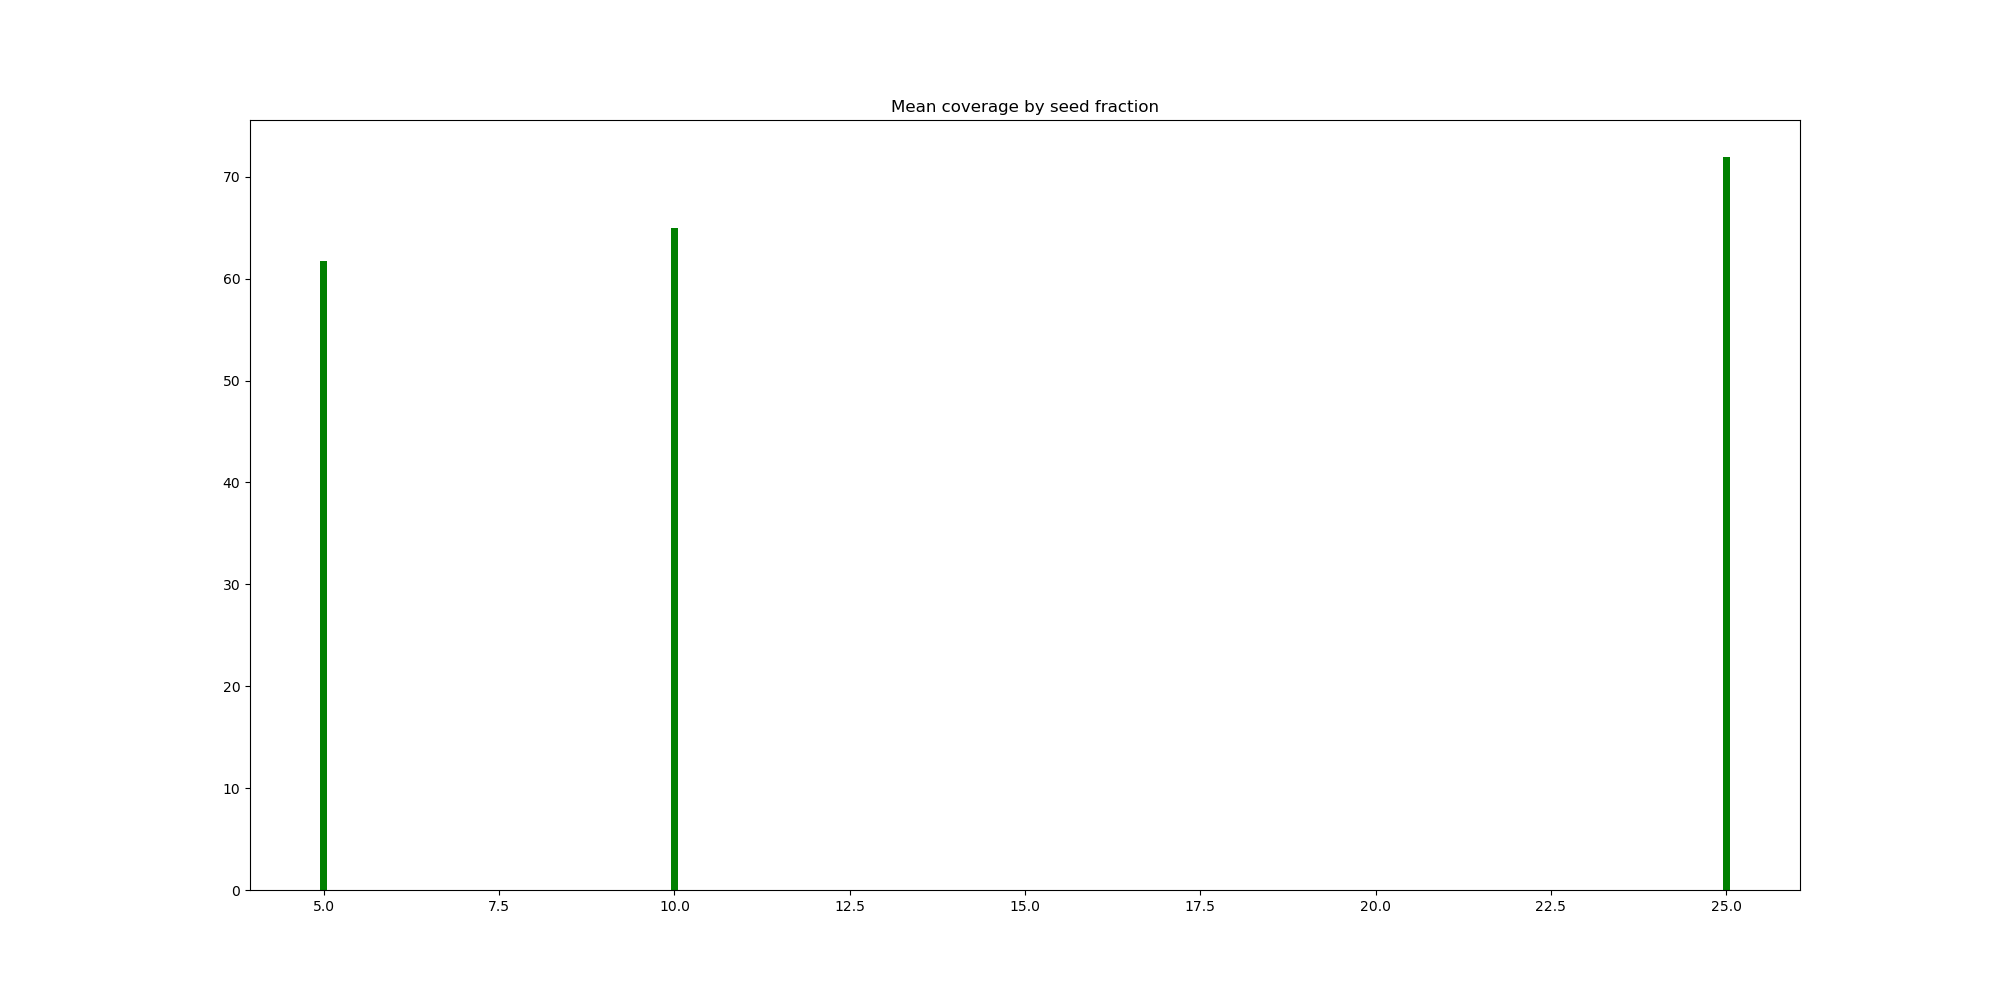
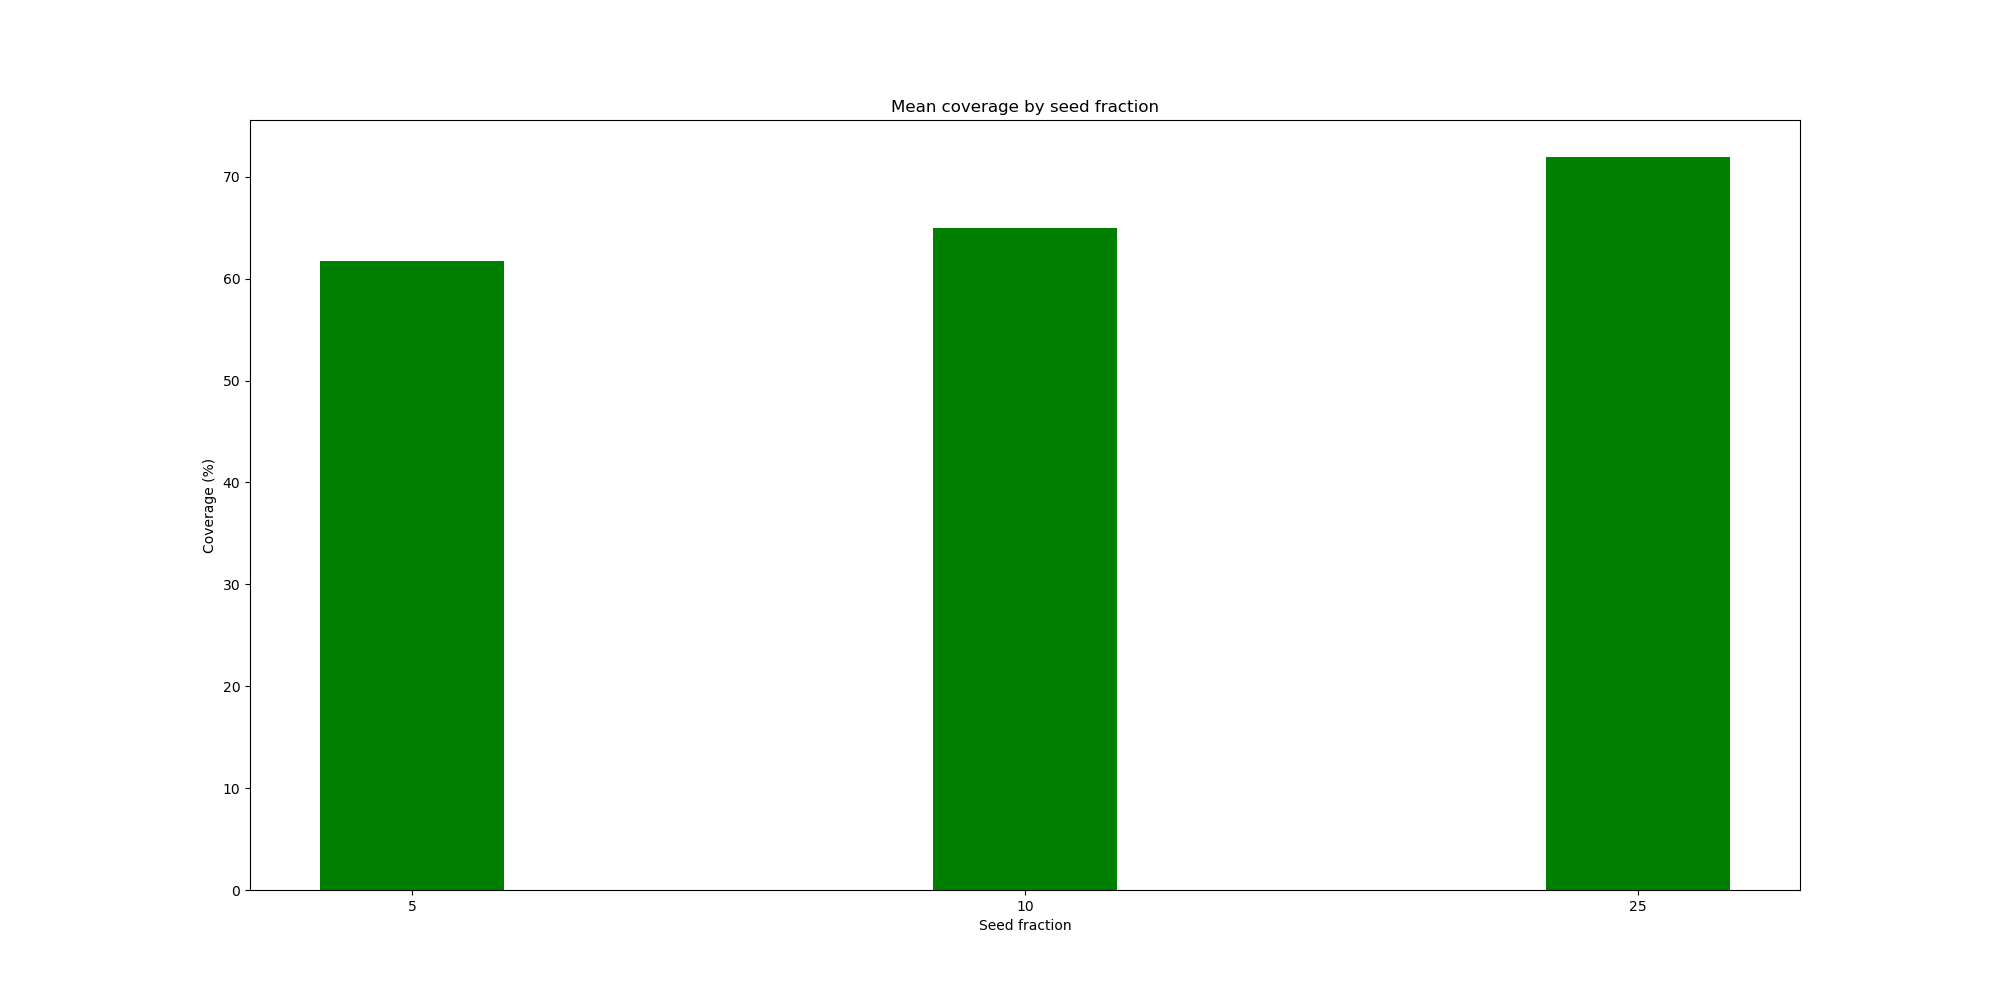
complex network finish!

diff --git a/complex-network/zad3/src/Service/GraphModelGenerator.py b/complex-network/zad3/src/Service/GraphModelGenerator.py
@@ -1,7 +1,6 @@
 import numpy as np
 from matplotlib import pyplot as plt
 import pandas as pd
-import os
 
 
 class GraphModelGenerator:
@@ -12,26 +11,6 @@ class GraphModelGenerator:
         self._default_filepath_data: str = './data/results_main.csv'
         self._file = self.__read_file()
 
-    def generate_average_measure_graph(self, filename: str = 'measure_average_infection.png'):
-        measure_names = self._file['Measure'].unique()
-        averages = [self._file[self._file['Measure'] == measure_name]['IF'].mean() for measure_name in measure_names]
-
-        plt.figure(figsize=(20, 10))
-        plt.bar(measure_names, averages, color='g')
-        plt.title('Average infection by measure')
-        plt.savefig(f'{self.save_filepath}/{filename}')
-
-    def generate_averaged_increasing_infection_by_pp(self, filename: str = 'averaged_increasing_infection_by_pp.png'):
-        networks = self._file['Network'].unique()
-        filepath_to_save = f'{self.save_filepath}/{filename.replace("png", "").replace("jpg", "")}'
-
-        if not os.path.exists(filepath_to_save):
-            os.mkdir(filepath_to_save)
-
-        for network in networks:
-            network_data = self._file[self._file['Network'] == network]
-            self.__generate_averaged_increasing_function_by_pp(network_data, filename)
-
     def generate_mean_coverage_by_network(self, filename: str = 'mean_coverage_by_network.png'):
         network_uniques = self._file['Network'].unique()
         network_uniques = np.array(list(map(lambda name: name.replace('.txt', ''), network_uniques)))
@@ -39,28 +18,30 @@ class GraphModelGenerator:
         mean_coverage_by_network = self._file.groupby(['Network'], sort=True)['IF'].mean()
 
         plot_title = 'Mean coverage by network'
-        self.__bar(network_uniques, mean_coverage_by_network, plot_title, filename)
+        self.__bar(network_uniques, mean_coverage_by_network, plot_title, filename, xlabel='Network', ylabel='Coverage (%)')
 
     def generate_mean_coverage_by_pp(self, filename: str = 'mean_coverage_by_pp.png'):
         pp_uniques = self._file['PP'].unique()
+        pp_uniques = list(map(lambda name: str(name), pp_uniques))
         mean_coverage_by_pp = self._file.groupby(['PP'])['IF'].mean()
 
         plot_title = 'Mean coverage by propagation probability'
-        self.__bar(pp_uniques, mean_coverage_by_pp, plot_title, filename)
+        self.__bar(pp_uniques, mean_coverage_by_pp, plot_title, filename, xlabel='Propagation probability', ylabel='Coverage (%)')
 
     def generate_mean_coverage_by_sf(self, filename: str = 'mean_coverage_by_sf.png'):
         sf_uniques = self._file['SF'].unique()
+        sf_uniques = list(map(lambda name: str(name), sf_uniques))
         mean_coverage_by_sf = self._file.groupby(['SF'])['IF'].mean()
 
         plot_title = 'Mean coverage by seed fraction'
-        self.__bar(sf_uniques, mean_coverage_by_sf, plot_title, filename)
+        self.__bar(sf_uniques, mean_coverage_by_sf, plot_title, filename, xlabel='Seed fraction', ylabel='Coverage (%)')
 
     def generate_mean_coverage_by_measure(self, filename: str = 'mean_coverage_by_measure.png'):
         measure_uniques = self._file['Measure'].unique()
         mean_coverage_by_measure = self._file.groupby(['Measure'])['IF'].mean()
 
         plot_title = 'Mean coverage by measure'
-        self.__bar(measure_uniques, mean_coverage_by_measure, plot_title, filename)
+        self.__bar(measure_uniques, mean_coverage_by_measure, plot_title, filename, xlabel='Measure', ylabel='Coverage (%)')
 
     def generate_mean_steps_by_network(self, filename: str = 'mean_steps_by_network.png'):
         network_uniques = self._file['Network'].unique()
@@ -69,52 +50,81 @@ class GraphModelGenerator:
         mean_steps_by_network = self._file.groupby(['Network'])['Iterations count'].mean()
 
         plot_title = 'Mean steps by network'
-        self.__bar(network_uniques, mean_steps_by_network, plot_title, filename)
+        self.__bar(network_uniques, mean_steps_by_network, plot_title, filename, xlabel='Network', ylabel='Steps')
 
     def generate_mean_steps_by_pp(self, filename: str = 'mean_steps_by_pp.png'):
         pp_uniques = self._file['PP'].unique()
+        pp_uniques = list(map(lambda name: str(name), pp_uniques))
         mean_steps_by_pp = self._file.groupby(['PP'])['Iterations count'].mean()
 
         plot_title = 'Mean steps by propagation probability'
-        self.__bar(pp_uniques, mean_steps_by_pp, plot_title, filename)
+        self.__bar(pp_uniques, mean_steps_by_pp, plot_title, filename, xlabel='Propagation probability', ylabel='Steps')
 
     def generate_mean_steps_by_sf(self, filename: str = 'mean_steps_by_sf.png'):
         sf_uniques = self._file['SF'].unique()
+        sf_uniques = list(map(lambda name: str(name), sf_uniques))
         mean_steps_by_sf = self._file.groupby(['SF'])['Iterations count'].mean()
 
         plot_title = 'Mean steps by seed fraction'
-        self.__bar(sf_uniques, mean_steps_by_sf, plot_title, filename)
+        self.__bar(sf_uniques, mean_steps_by_sf, plot_title, filename, xlabel='Seed fraction', ylabel='Steps')
 
     def generate_mean_steps_by_measure(self, filename: str = 'mean_steps_by_measure.png'):
         measure_uniques = self._file['Measure'].unique()
         mean_steps_by_measure = self._file.groupby(['Measure'])['Iterations count'].mean()
 
         plot_title = 'Mean steps by measure'
-        self.__bar(measure_uniques, mean_steps_by_measure, plot_title, filename)
+        self.__bar(measure_uniques, mean_steps_by_measure, plot_title, filename, xlabel='Measure', ylabel='Steps')
 
     def generate_max_coverage_by_method(self, filename: str = 'max_coverage_by_method.png'):
         max_coverage_by_measure = self._file.groupby(['Network', 'Measure'])['IF'].max()
-        names = self._file['Network'].unique()
+        names = list(map(lambda name: name.replace('.txt', ''), self._file['Network'].unique()))
 
         plot_title = 'Max coverage by measure'
         x = np.arange(len(names))
-        width = 0.35
+        width = 0.25
 
         fig, ax = plt.subplots(figsize=(20, 10))
-        rects1 = ax.bar(x - width / 3, max_coverage_by_measure[::3], width, label='degree')
-        rects2 = ax.bar(x + width / 3, max_coverage_by_measure[1::3], width, label='closeness')
-        rects3 = ax.bar(x + width / 3, max_coverage_by_measure[2::3], width, label='random')
+        rects1 = ax.bar(x - width / 0.8, max_coverage_by_measure[::3], width, label='degree')
+        rects2 = ax.bar(x, max_coverage_by_measure[1::3], width, label='closeness')
+        rects3 = ax.bar(x + width / 0.8, max_coverage_by_measure[2::3], width, label='random')
 
         ax.set_xticks(x, names)
+        ax.set_xlabel('Network Name')
         ax.set_ylabel('Infection coverage (%)')
-        ax.legend()
+        ax.legend(loc='lower right')
 
-        ax.bar_label(rects1, padding=3)
-        ax.bar_label(rects2, padding=3)
-        ax.bar_label(rects3, padding=3)
+        ax.bar_label(rects1, padding=5)
+        ax.bar_label(rects2, padding=5)
+        ax.bar_label(rects3, padding=5)
 
         ax.set_title(plot_title)
-        plt.savefig(f'{self.save_filepath}/{filename}')
+        plt.savefig(f'{self.save_filepath}/{filename}') if self.save else plt.show()
+        plt.close(fig)
+
+    def generate_max_coverage_by_sf(self, filename: str = 'max_coverage_by_sf.png'):
+        max_coverage_by_measure = self._file.groupby(['Network', 'SF'])['IF'].max()
+        names = list(map(lambda name: name.replace('.txt', ''), self._file['Network'].unique()))
+
+        plot_title = 'Max coverage by seed fraction'
+        x = np.arange(len(names))
+        width = 0.25
+
+        fig, ax = plt.subplots(figsize=(20, 10))
+        rects1 = ax.bar(x - width / 0.8, max_coverage_by_measure[::3], width, label='5%')
+        rects2 = ax.bar(x, max_coverage_by_measure[1::3], width, label='10%')
+        rects3 = ax.bar(x + width / 0.8, max_coverage_by_measure[2::3], width, label='25%')
+
+        ax.set_xticks(x, names)
+        ax.set_xlabel('Network Name')
+        ax.set_ylabel('Infection coverage (%)')
+        ax.legend(loc='lower right')
+
+        ax.bar_label(rects1, padding=5)
+        ax.bar_label(rects2, padding=5)
+        ax.bar_label(rects3, padding=5)
+
+        ax.set_title(plot_title)
+        plt.savefig(f'{self.save_filepath}/{filename}') if self.save else plt.show()
         plt.close(fig)
 
     def generate_max_coverage_by_method_and_pp(self, filename: str = 'max_coverage_by_method_and_pp.png'):
@@ -123,12 +133,15 @@ class GraphModelGenerator:
     def __read_file(self, filepath: str = None) -> pd.DataFrame:
         return pd.read_csv(self._default_filepath_data if filepath is None else filepath)
 
-    def __generate_averaged_increasing_function_by_pp(self, network_data: pd.DataFrame, filename: str):
-        pp_uniques = network_data['PP'].unique()
-
-    def __bar(self, names: np.array, values, title: str, filename: str):
+    def __bar(self, names: np.array, values, title: str, filename: str, **kwargs):
         fig = plt.figure(figsize=(20, 10))
-        plt.bar(names, values, color='g', width=0.1)
+        plt.bar(names, values, color='g', width=0.3 if 'width' not in kwargs.keys() else kwargs['width'])
         plt.title(title)
-        plt.savefig(f'{self.save_filepath}/{filename}')
+
+        if 'xlabel' in kwargs.keys():
+            plt.xlabel(kwargs['xlabel'])
+        if 'ylabel' in kwargs.keys():
+            plt.ylabel(kwargs['ylabel'])
+
+        plt.savefig(f'{self.save_filepath}/{filename}') if self.save else plt.show()
         plt.close(fig)

diff --git a/complex-network/zad3/main.py b/complex-network/zad3/main.py
@@ -21,17 +21,18 @@ if __name__ == '__main__':
 
     graph_model_generator = GraphModelGenerator()
 
-    # graph_model_generator.generate_mean_coverage_by_network()
-    # graph_model_generator.generate_mean_coverage_by_pp()
-    # graph_model_generator.generate_mean_coverage_by_sf()
-    # graph_model_generator.generate_mean_coverage_by_measure()
-    #
-    # graph_model_generator.generate_mean_steps_by_network()
-    # graph_model_generator.generate_mean_steps_by_pp()
-    # graph_model_generator.generate_mean_steps_by_sf()
-    # graph_model_generator.generate_mean_steps_by_measure()
+    graph_model_generator.generate_mean_coverage_by_network()
+    graph_model_generator.generate_mean_coverage_by_pp()
+    graph_model_generator.generate_mean_coverage_by_sf()
+    graph_model_generator.generate_mean_coverage_by_measure()
+
+    graph_model_generator.generate_mean_steps_by_network()
+    graph_model_generator.generate_mean_steps_by_pp()
+    graph_model_generator.generate_mean_steps_by_sf()
+    graph_model_generator.generate_mean_steps_by_measure()
 
     graph_model_generator.generate_max_coverage_by_method()
+    graph_model_generator.generate_max_coverage_by_sf()
 
 
     """
